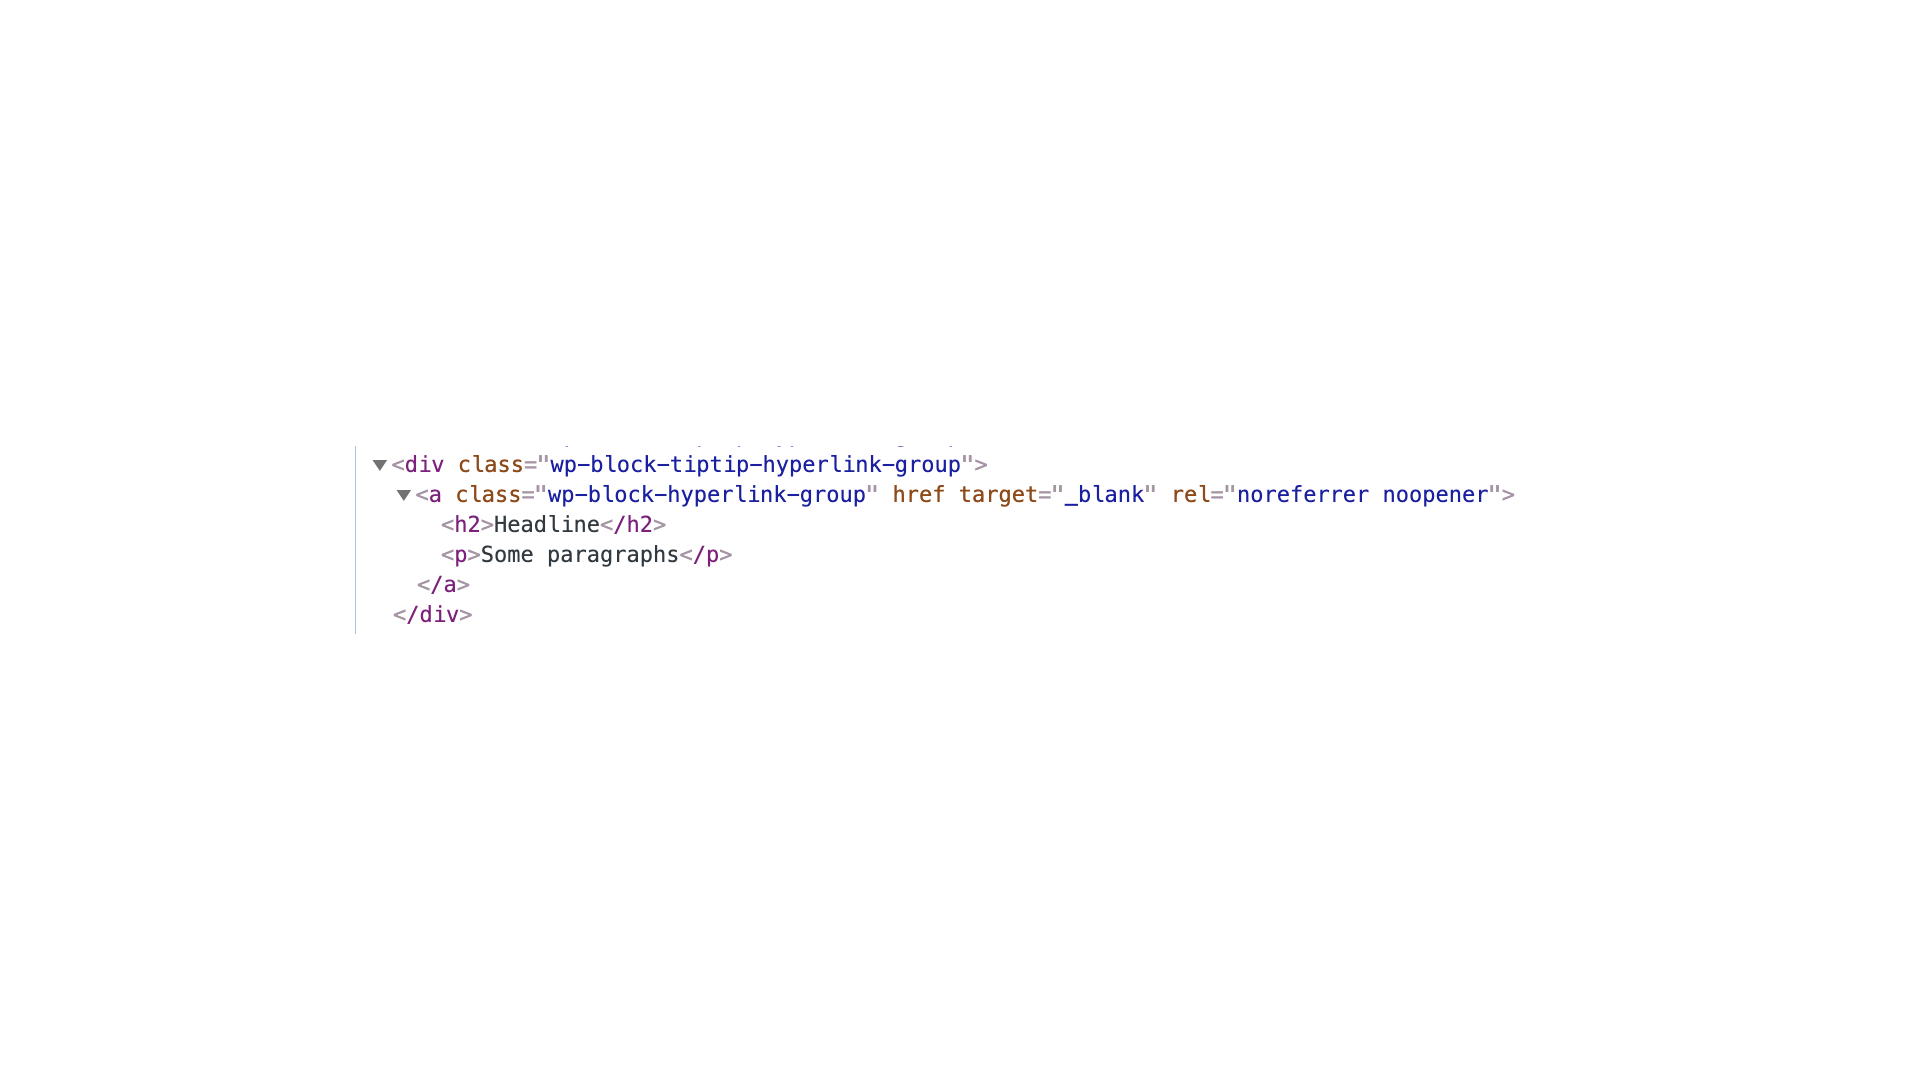
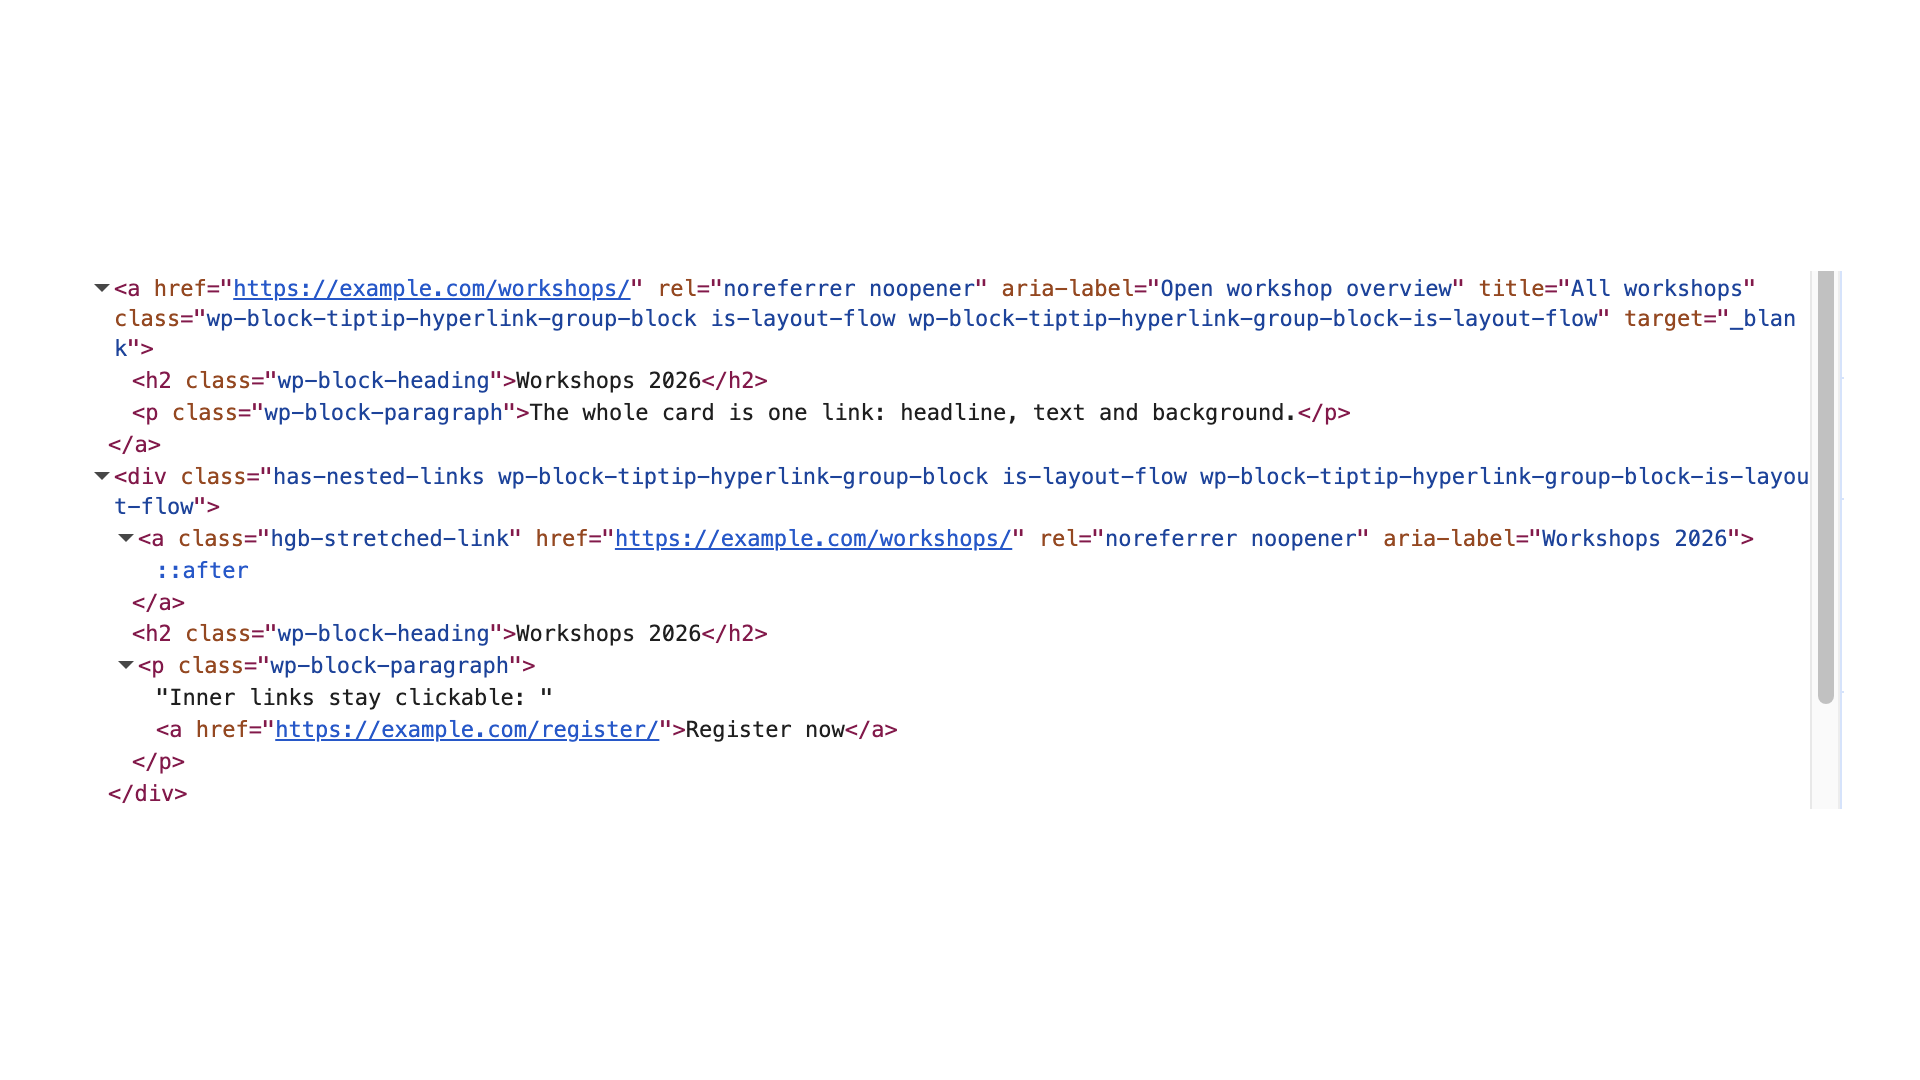
Update screenshots and readme, hide empty self-transform
- Screenshot 3: rendered HTML of both variants (link wrapper, stretched link)
- Screenshot 4: fix "targe" and "an hyperlink" typos
- Readme: new captions for screenshots 3-5, FAQ for the tab name field
- Fix "an hyperlink" in block, plugin and package description
- Don't offer "Transform to Hyperlink Group" for a single Hyperlink Group
  (empty preview, no effect), with test

Changed region(s): [[0.0625, 0.2444, 0.9688, 0.7639]]

diff --git a/src/__tests__/transforms.test.js b/src/__tests__/transforms.test.js
@@ -3,6 +3,7 @@ import {
 	registerBlockType,
 	switchToBlockType,
 	getBlockType,
+	getPossibleBlockTransformations,
 } from '@wordpress/blocks';
 // Registers the block supports hooks that add `anchor`, `style`, colors, …
 import '@wordpress/block-editor';
@@ -116,4 +117,18 @@ test( 'ungroup returns the inner blocks', () => {
 	const { ungroup } = getBlockType( NAME ).transforms;
 
 	expect( ungroup( {}, inner ) ).toBe( inner );
+} );
+
+test( 'a single Hyperlink Group is not offered to transform into itself', () => {
+	const link = createBlock( NAME, {}, [
+		createBlock( 'core/paragraph', { content: 'Hi' } ),
+	] );
+	const paragraph = createBlock( 'core/paragraph', { content: 'Hi' } );
+
+	const names = ( blocks ) =>
+		getPossibleBlockTransformations( blocks ).map( ( t ) => t.name );
+
+	expect( names( [ link ] ) ).not.toContain( NAME );
+	expect( names( [ paragraph ] ) ).toContain( NAME );
+	expect( names( [ link, paragraph ] ) ).toContain( NAME );
 } );

diff --git a/src/index.js b/src/index.js
@@ -16,7 +16,7 @@ registerBlockType( name, {
 	...metadata,
 	icon,
 	description: __(
-        'Combine blocks into a group wrapped with an hyperlink.',
+        'Combine blocks into a group wrapped with a hyperlink.',
         'hyperlink-group-block'
     ),
 	keywords: [
@@ -119,6 +119,13 @@ registerBlockType( name, {
 				type: 'block',
 				isMultiBlock: true,
 				blocks: [ '*' ],
+				// Hide the transform for a single Hyperlink Group: converting it
+				// would do nothing, the menu shows an empty preview.
+				isMatch: ( attributes, blocks ) =>
+					! (
+						blocks.length === 1 &&
+						blocks[ 0 ].name === 'tiptip/hyperlink-group-block'
+					),
 				__experimentalConvert( blocks ) {
 					// Avoid transforming a single `core/group` Block
 					if (

diff --git a/hyperlink-group-block.php b/hyperlink-group-block.php
@@ -2,7 +2,7 @@
 /**
  * Plugin Name:     Hyperlink Group Block
  * Plugin URI:      https://wordpress.org/plugins/hyperlink-group-block/
- * Description:     Combine blocks into a group wrapped with an hyperlink (&lt;a&gt;).
+ * Description:     Combine blocks into a group wrapped with a hyperlink (&lt;a&gt;).
  * Version:         2.1.0
  * Requires at least: 6.6
  * Requires PHP:      7.2
